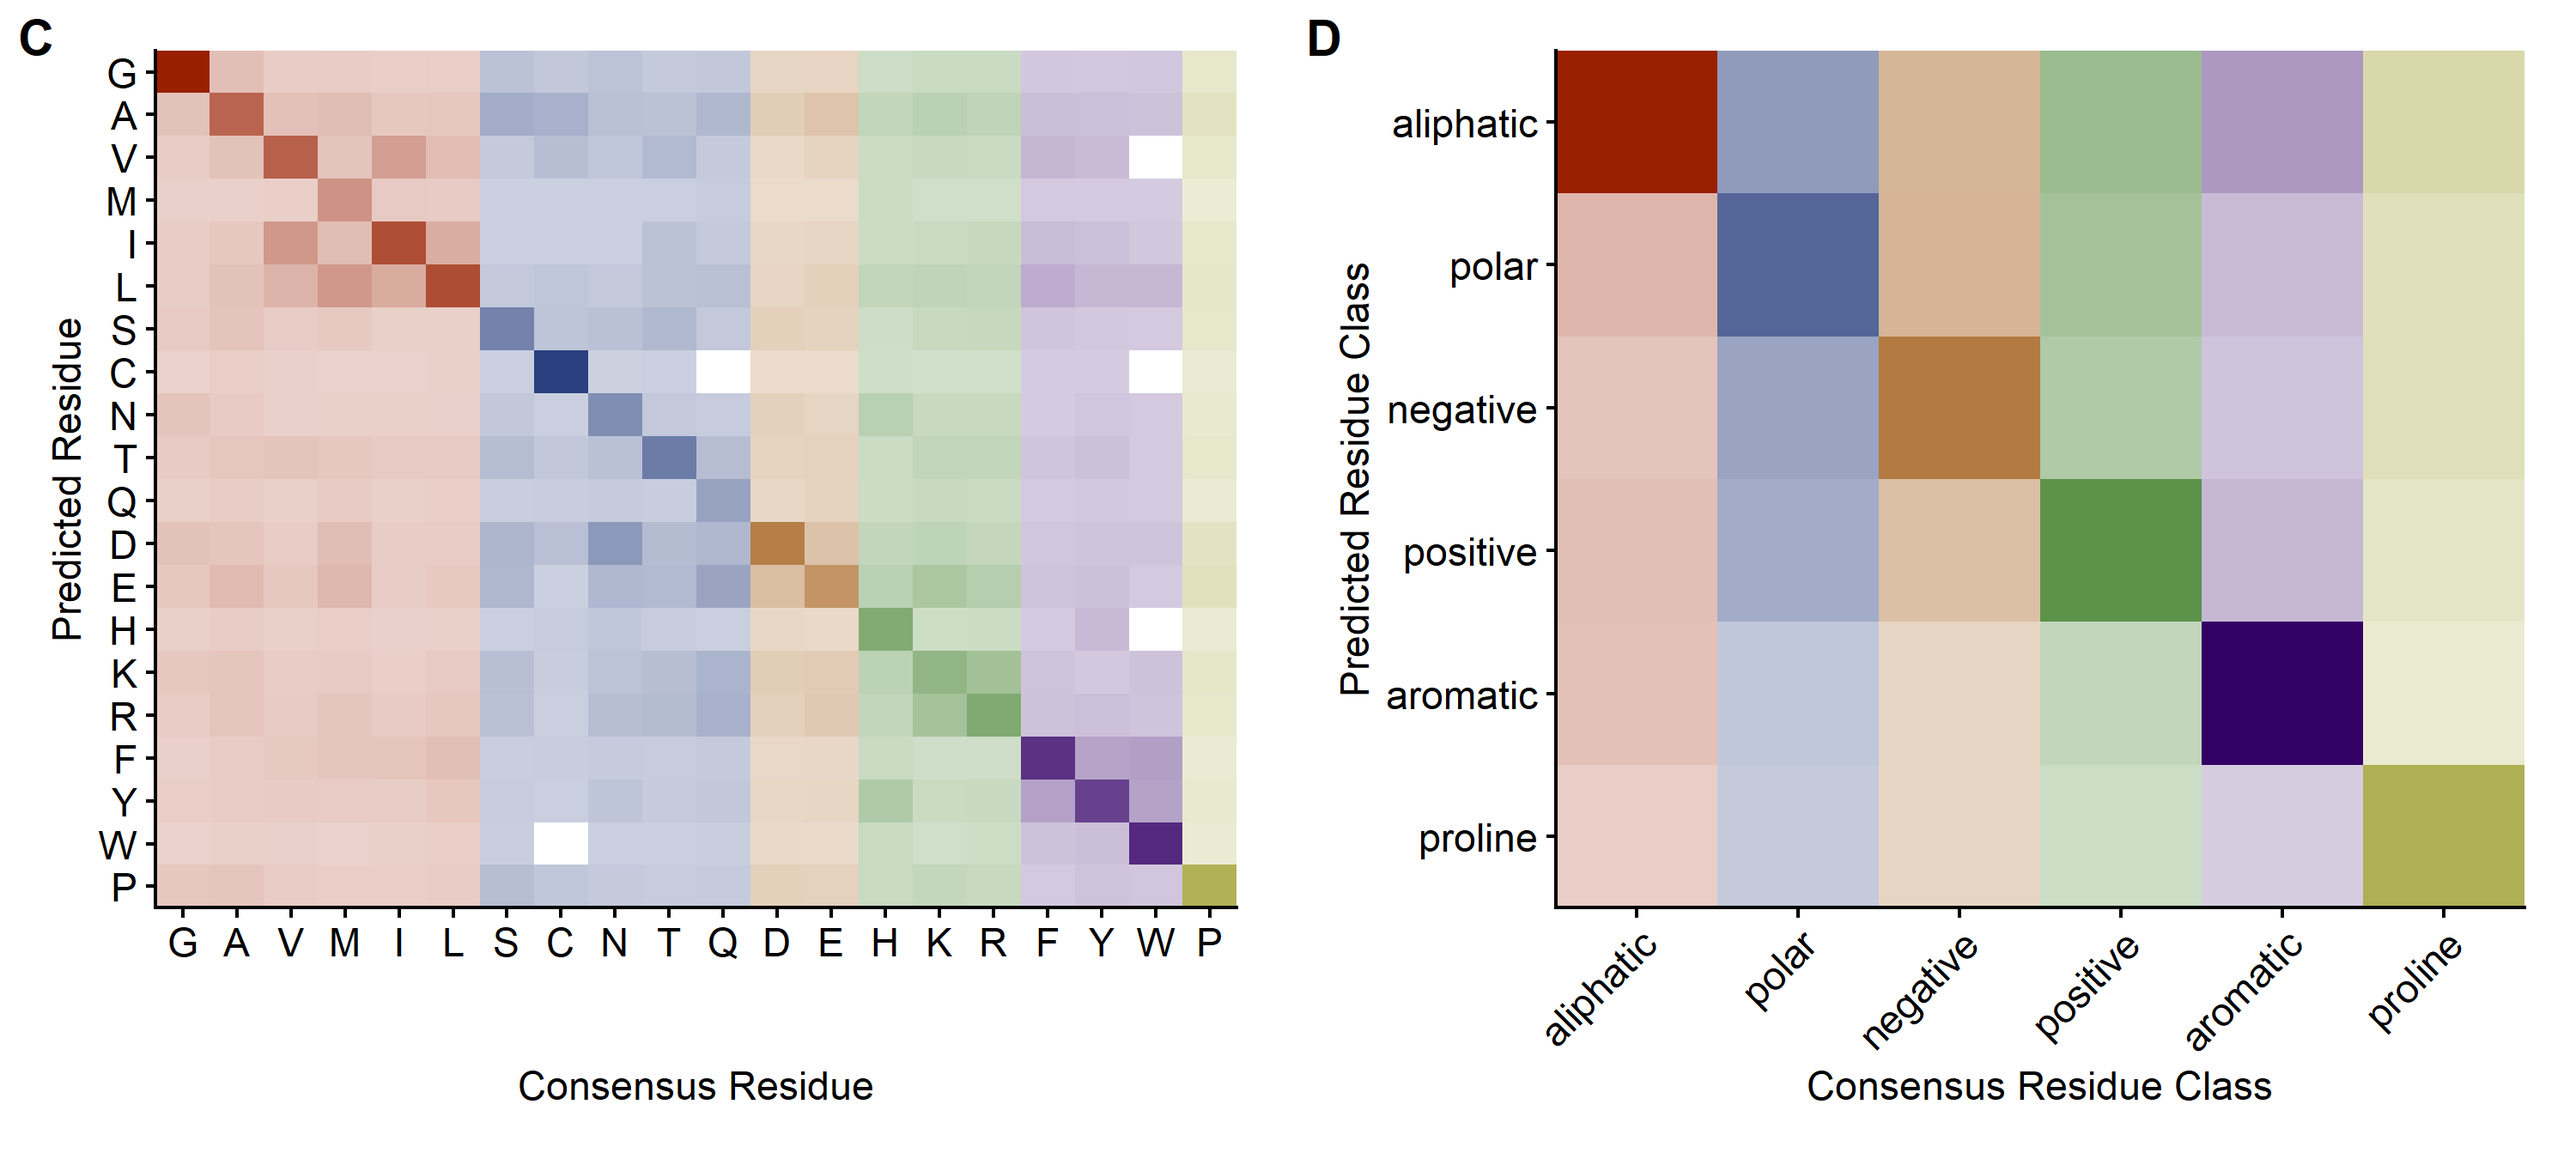
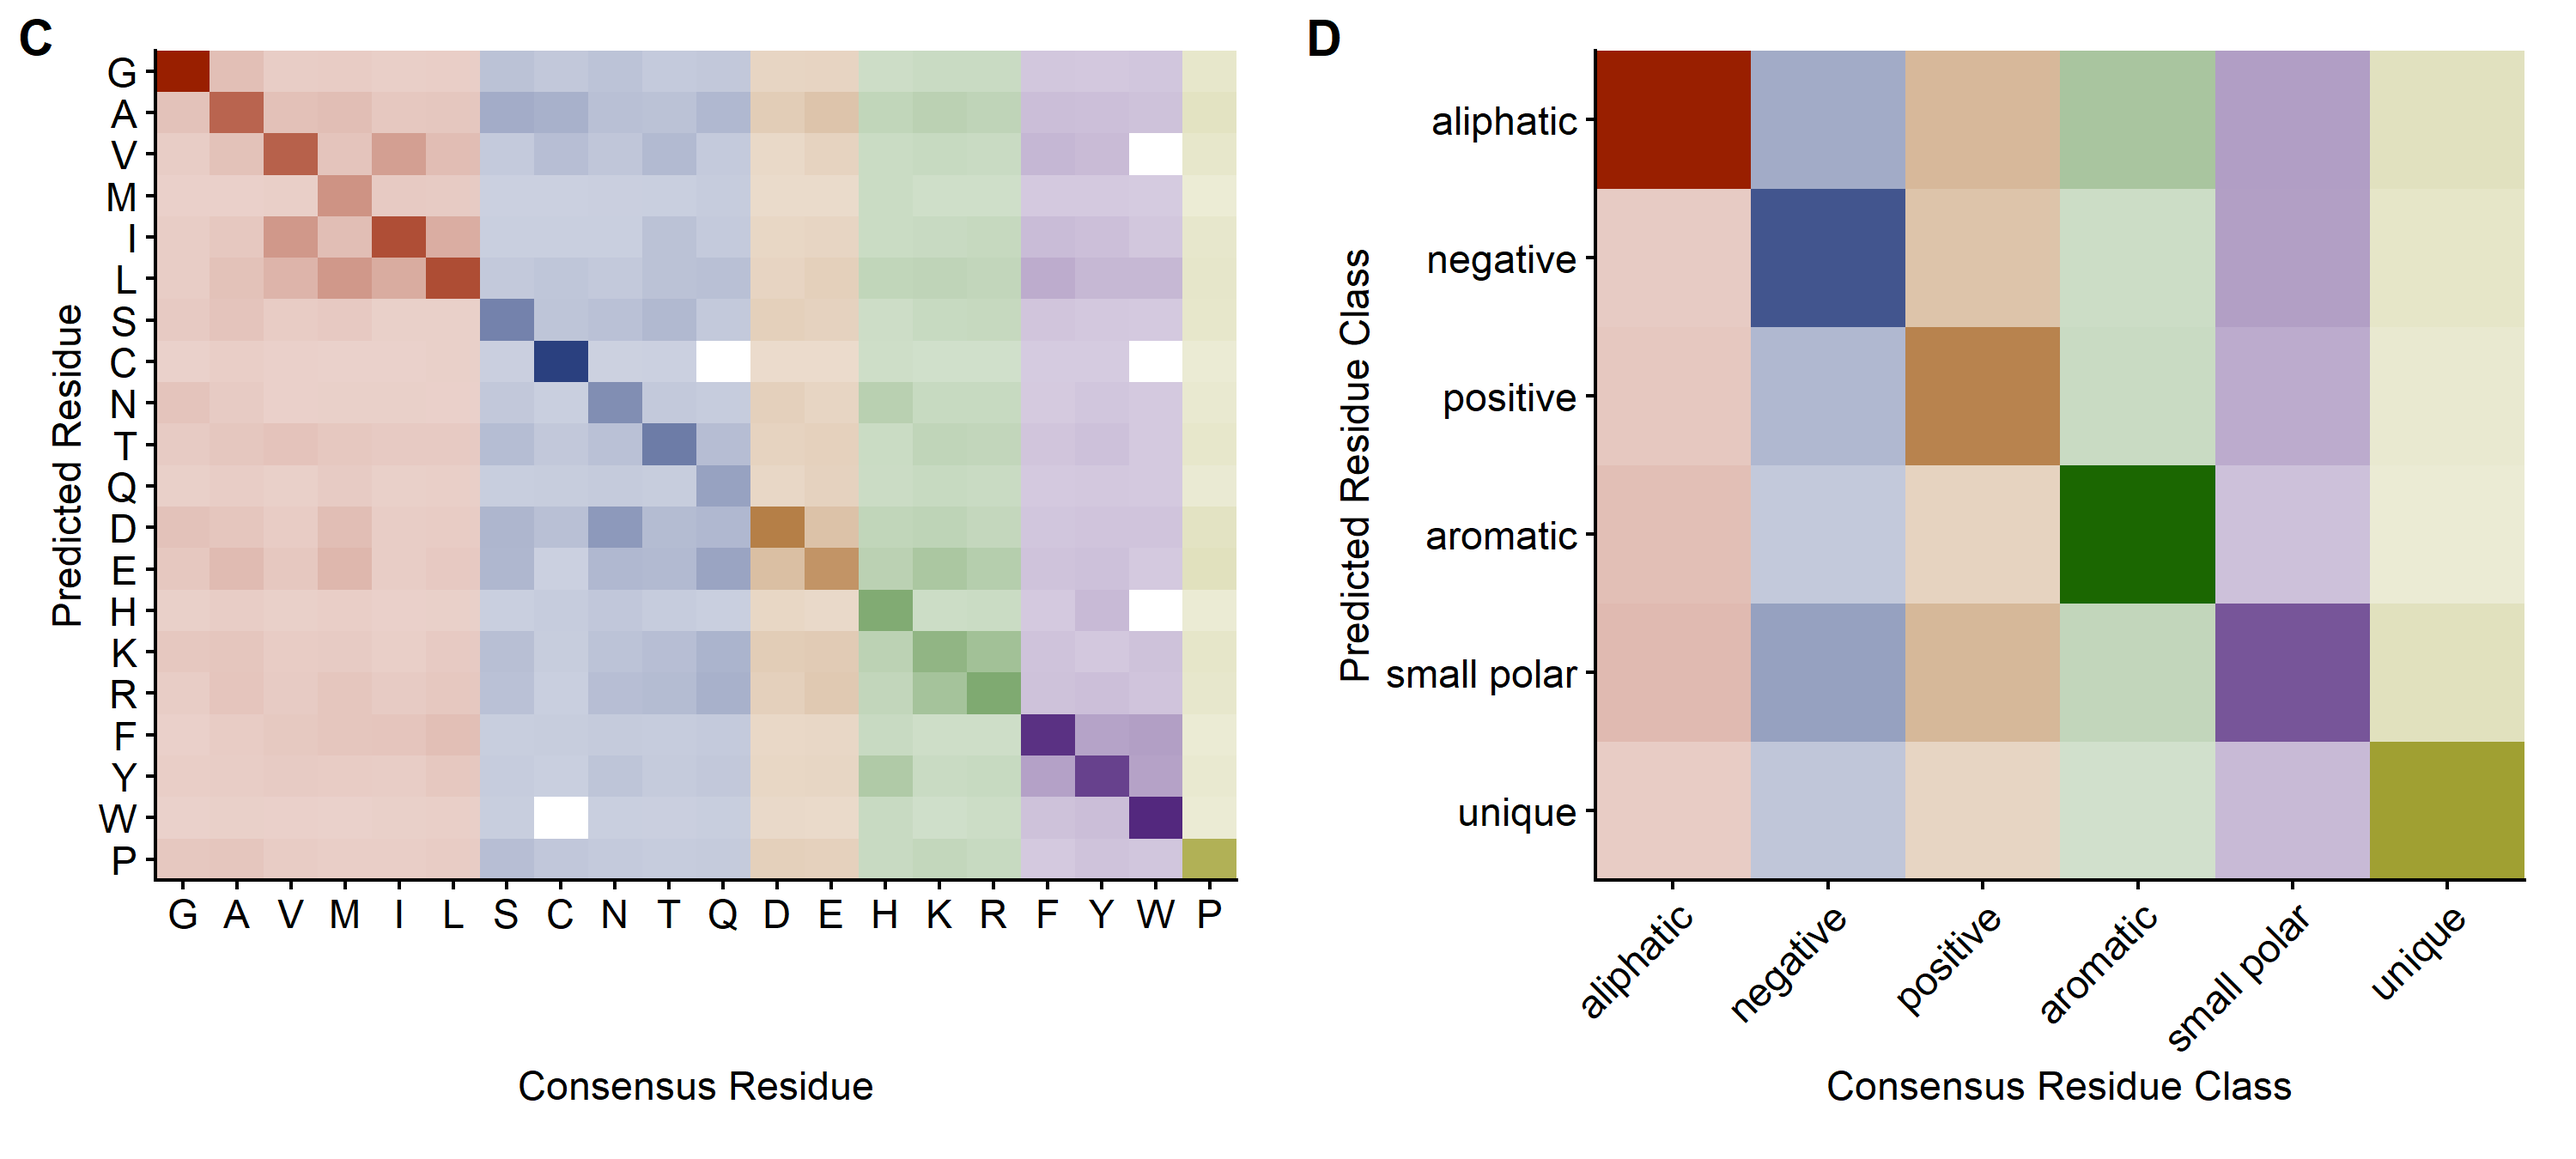
changed figure 3 heatmaps to correct classes

diff --git a/src/python_code/sample_by_similarity.py b/src/python_code/sample_by_similarity.py
@@ -11,60 +11,61 @@ import sys
 # make sure that name of fasta file matches with name the pdb sequences. 
 
 #loading a fasta aln file:
-box_size = "12"
-MAX_LIM = 0.4
-MIN_LIM = MAX_LIM - 0.2
 
-def compare(aln_seq, ref_seq):
-  count_similar = 0
-  for i, j in zip(aln_seq, ref_seq):
-    assert j != "-"
-    if i == j:
-      count_similar += 1
+MAX_LIMS = [0.2, 0.4, 0.6, 0.8, 1.0]
 
-  similarity = float(count_similar/len(ref_seq))
+for max_lim in MAX_LIMS:
+  min_lim = max_lim - 0.2
+  def compare(aln_seq, ref_seq):
+    count_similar = 0
+    for i, j in zip(aln_seq, ref_seq):
+      assert j != "-"
+      if i == j:
+        count_similar += 1
 
-  if similarity > MIN_LIM and similarity <= MAX_LIM:
-    return True
-  else:
-    return False
+    similarity = float(count_similar/len(ref_seq))
 
-# do not use this function (it is just in case)
-def get_reference_from_CNN_data():
-  
-  aaCodes = {'ALA':'A', 'ARG':'R', 'ASN':'N', 'ASP':'D', 'CYS':'C', 'GLN':'Q', 'GLU':'E', 'GLY':'G', 'HIS':'H', 'ILE':'I', 'LEU':'L', 'LYS':'K', 'MET':'M', 'PHE':'F', 'PRO':'P', 'SER':'S', 'THR':'T','TRP':'W', 'TYR':'Y', 'VAL':'V'}
-  with open("../data/PSICOV/PSICOV_CNN_output/1a6m_final_tot.csv", 'r') as file:
-    ref_seq = ""
-    file.readline()
-    for line in file:
-      line = line.rstrip('\n')
-      line = line.rsplit(",")
-      wt_aa = line[5]
-      ref_seq += aaCodes[wt_aa]
+    if similarity > min_lim and similarity <= max_lim:
+      return True
+    else:
+      return False
 
-  return ref_seq
+  # do not use this function (it is just in case)
+  def get_reference_from_CNN_data():
+    
+    aaCodes = {'ALA':'A', 'ARG':'R', 'ASN':'N', 'ASP':'D', 'CYS':'C', 'GLN':'Q', 'GLU':'E', 'GLY':'G', 'HIS':'H', 'ILE':'I', 'LEU':'L', 'LYS':'K', 'MET':'M', 'PHE':'F', 'PRO':'P', 'SER':'S', 'THR':'T','TRP':'W', 'TYR':'Y', 'VAL':'V'}
+    with open("../data/PSICOV/PSICOV_CNN_output/1a6m_final_tot.csv", 'r') as file:
+      ref_seq = ""
+      file.readline()
+      for line in file:
+        line = line.rstrip('\n')
+        line = line.rsplit(",")
+        wt_aa = line[5]
+        ref_seq += aaCodes[wt_aa]
 
-#CNN_reference = get_reference_from_CNN_data() #should be the same as records[0] in alignment
+    return ref_seq
 
-input_path = "../../data/PSICOV_box_" + box_size + "/aln_fasta/"
-output_path = "../../data/PSICOV_box_" + box_size + "/" + "aln_" + str(int(MAX_LIM*100)) + "/"
+  #CNN_reference = get_reference_from_CNN_data() #should be the same as records[0] in alignment
 
-protein_list = os.listdir(input_path)
+  input_path = "../../data/PSICOV/aln_fasta/"
+  output_path = "../../data/PSICOV/aln_" + str(int(max_lim*100)) + "/"
 
-for protein in protein_list:
-  with open(output_path + protein, 'w') as file:
-    records = list(SeqIO.parse(input_path + protein, "fasta"))
-    ref_seq = records[0].seq
-    #file.write(">reference\n") # we do not want to include the reference in the calculations
-    #file.write(str(ref_seq) + "\n")
+  protein_list = os.listdir(input_path)
 
-    for i in range(1, len(records)):
-      aln_seq = records[i].seq
-      keep = compare(str(aln_seq), str(ref_seq))
+  for protein in protein_list:
+    with open(output_path + protein, 'w') as file:
+      records = list(SeqIO.parse(input_path + protein, "fasta"))
+      ref_seq = records[0].seq
+      #file.write(">reference\n") # we do not want to include the reference in the calculations
+      #file.write(str(ref_seq) + "\n")
 
-      if keep:
-        file.write(">" + str(i) + "\n")
-        file.write(str(aln_seq) + "\n")
+      for i in range(1, len(records)):
+        aln_seq = records[i].seq
+        keep = compare(str(aln_seq), str(ref_seq))
+
+        if keep:
+          file.write(">" + str(i) + "\n")
+          file.write(str(aln_seq) + "\n")
 
       
 

diff --git a/src/python_code/get_natural_stats.py b/src/python_code/get_natural_stats.py
@@ -74,7 +74,7 @@ def get_class_freq(freq, length):
   positive = ["R", "K"]
   aromatic = ["H", "Y", "F", "W"]
 
-  class_freq = [{"unique":0, "aliphatic":0, "small polar":0, "negative":0, "positive":0, "aromatic":0} for x in range(length)]
+  class_freq = [{"unique":0, "aliphatic":0, "small_polar":0, "negative":0, "positive":0, "aromatic":0} for x in range(length)]
   for i, col in enumerate(freq): # there are "length" columns
     for aa in col:
       if aa in unique:
@@ -82,7 +82,7 @@ def get_class_freq(freq, length):
       if aa in aliphatic:
         class_freq[i]["aliphatic"] += col[aa] 
       if aa in small_polar:
-        class_freq[i]["small polar"] += col[aa]
+        class_freq[i]["small_polar"] += col[aa]
       if aa in negative:
         class_freq[i]["negative"] += col[aa]
       if aa in positive:
@@ -100,10 +100,13 @@ for group_name in group_list:
   output_path = "../../output/output_PSICOV/stats_align_files/stats_align_" + group_name + ".csv"
 
   # for group names: 40, 60 and 80, alignments must be longer than "min_seqs". 
+  
   if group_name != "20" or group_name != "100":
     input_path = "../../data/PSICOV/aln_filtered_" + str(min_seqs) + "/aln_" + group_name + "/" #input multiple sequence aligments path
   else:
     input_path = "../../data/PSICOV/aln_" + group_name + "/" #input multiple sequence aligments path
+
+  #input_path = "../../data/PSICOV/aln_" + group_name + "/" #input multiple sequence aligments path
 
   #list of protein sequence alignments:
   protein_list = os.listdir(input_path)
@@ -142,8 +145,8 @@ for group_name in group_list:
 
       # saving freq, entropy and n_eff values to CSV:
       #old: aa = ['H', 'E', 'D', 'R', 'K', 'S', 'T', 'N', 'Q', 'A', 'V', 'L', 'I', 'M', 'F', 'Y', 'W', 'P', 'G', 'C']
-      aa = ['A', 'R', 'N',  'D', 'C', 'Q', 'E', 'G', 'H', 'I', 'L', 'K', 'M', 'F', 'P', 'S', 'T', 'W', 'Y', 'V']
-      classes = ['unique', 'aliphatic', 'small polar', 'negative', 'positive', 'aromatic']
+      aa = ['A', 'R', 'N', 'D', 'C', 'Q', 'E', 'G', 'H', 'I', 'L', 'K', 'M', 'F', 'P', 'S', 'T', 'W', 'Y', 'V']
+      classes = ['unique', 'aliphatic', 'small_polar', 'negative', 'positive', 'aromatic']
       
       for position in range(length):
         freq_list = []

diff --git a/src/python_code/extras/max_freq_to_csv.py b/src/python_code/extras/max_freq_to_csv.py
@@ -36,14 +36,14 @@ def get_class_freq(line):
   positive = ["R", "K"]
   aromatic = ["H", "Y", "F", "W"]
 
-  class_dict = {"unique":0, "aliphatic":0, "small polar":0, "negative":0, "positive":0, "aromatic":0}
+  class_dict = {"unique":0, "aliphatic":0, "small_polar":0, "negative":0, "positive":0, "aromatic":0}
   for i, aa in enumerate(aaList):
     if aa in unique:
       class_dict["unique"] += float(line[i+10])
     if aa in aliphatic:
       class_dict["aliphatic"] += float(line[i+10]) 
     if aa in small_polar:
-      class_dict["small polar"] += float(line[i+10])
+      class_dict["small_polar"] += float(line[i+10])
     if aa in negative:
       class_dict["negative"] += float(line[i+10])
     if aa in positive:
@@ -66,14 +66,14 @@ def get_class_freq_2(wt_aa, line):
   positive = ["R", "K"]
   aromatic = ["H", "Y", "F", "W"]
 
-  class_dict = {"unique":0, "aliphatic":0, "small polar":0, "negative":0, "positive":0, "aromatic":0}
+  class_dict = {"unique":0, "aliphatic":0, "small_polar":0, "negative":0, "positive":0, "aromatic":0}
   for i, aa in enumerate(aaList):
     if aa in unique:
       class_dict["unique"] += float(line[i+10])
     if aa in aliphatic:
       class_dict["aliphatic"] += float(line[i+10]) 
     if aa in small_polar:
-      class_dict["small polar"] += float(line[i+10])
+      class_dict["small_polar"] += float(line[i+10])
     if aa in negative:
       class_dict["negative"] += float(line[i+10])
     if aa in positive:
@@ -88,7 +88,7 @@ def get_class_freq_2(wt_aa, line):
   if wt_aa in aliphatic:
     aa_class = "aliphatic" 
   if wt_aa in small_polar:
-    aa_class = "small polar"
+    aa_class = "small_polar"
   if wt_aa in negative:
     aa_class = "negative"
   if wt_aa in positive:

diff --git a/src/python_code/get_natural_stats_all.py b/src/python_code/get_natural_stats_all.py
@@ -75,7 +75,7 @@ def get_class_freq(freq, length):
   positive = ["R", "K"]
   aromatic = ["H", "Y", "F", "W"]
 
-  class_freq = [{"unique":0, "aliphatic":0, "small polar":0, "negative":0, "positive":0, "aromatic":0} for x in range(length)]
+  class_freq = [{"unique":0, "aliphatic":0, "small_polar":0, "negative":0, "positive":0, "aromatic":0} for x in range(length)]
   for i, col in enumerate(freq): # there are "length" columns
     for aa in col:
       if aa in unique:
@@ -83,7 +83,7 @@ def get_class_freq(freq, length):
       if aa in aliphatic:
         class_freq[i]["aliphatic"] += col[aa] 
       if aa in small_polar:
-        class_freq[i]["small polar"] += col[aa]
+        class_freq[i]["small_polar"] += col[aa]
       if aa in negative:
         class_freq[i]["negative"] += col[aa]
       if aa in positive:
@@ -136,7 +136,7 @@ with open(output_path, "w", newline='\n', encoding='utf-8') as CSV_file:
     # saving freq, entropy and n_eff values to CSV:
     #old: aa = ['H', 'E', 'D', 'R', 'K', 'S', 'T', 'N', 'Q', 'A', 'V', 'L', 'I', 'M', 'F', 'Y', 'W', 'P', 'G', 'C']
     aa = ['A', 'R', 'N',  'D', 'C', 'Q', 'E', 'G', 'H', 'I', 'L', 'K', 'M', 'F', 'P', 'S', 'T', 'W', 'Y', 'V']
-    classes = ['unique', 'aliphatic', 'small polar', 'negative', 'positive', 'aromatic']
+    classes = ['unique', 'aliphatic', 'small_polar', 'negative', 'positive', 'aromatic']
     
     for position in range(length):
       freq_list = []

diff --git a/src/python_code/extras/natural_max_freq_all.py b/src/python_code/extras/natural_max_freq_all.py
@@ -15,7 +15,7 @@ def getMax(list):
   return [aaList[ind], max]
 
 def getMax_class(list):
-  class_list = ['unique', 'aliphatic', 'small polar', 'negative', 'positive', 'aromatic']
+  class_list = ['unique', 'aliphatic', 'small_polar', 'negative', 'positive', 'aromatic']
   ind = 0
   max = 0
   for i in range(0, len(list)):
@@ -26,7 +26,7 @@ def getMax_class(list):
   return [class_list[ind], max]
 
 def get_aa_class(wt_aa, class_freqs):
-  class_list = ['unique', 'aliphatic', 'small polar', 'negative', 'positive', 'aromatic']
+  class_list = ['unique', 'aliphatic', 'small_polar', 'negative', 'positive', 'aromatic']
 
   unique = ["P", "G"]
   aliphatic = ["M", "L", "I", "V", "A"]
@@ -41,7 +41,7 @@ def get_aa_class(wt_aa, class_freqs):
   if wt_aa in aliphatic:
     aa_class = "aliphatic" 
   if wt_aa in small_polar:
-    aa_class = "small polar"
+    aa_class = "small_polar"
   if wt_aa in negative:
     aa_class = "negative"
   if wt_aa in positive:

diff --git a/src/python_code/extras/natural_max_freq.py b/src/python_code/extras/natural_max_freq.py
@@ -26,7 +26,7 @@ def getMax_class(list):
   return [class_list[ind], max]
 
 def get_aa_class(wt_aa, class_freqs):
-  class_list = ['unique', 'aliphatic', 'small polar', 'negative', 'positive', 'aromatic']
+  class_list = ['unique', 'aliphatic', 'small_polar', 'negative', 'positive', 'aromatic']
 
   unique = ["P", "G"]
   aliphatic = ["M", "L", "I", "V", "A"]
@@ -41,7 +41,7 @@ def get_aa_class(wt_aa, class_freqs):
   if wt_aa in aliphatic:
     aa_class = "aliphatic" 
   if wt_aa in small_polar:
-    aa_class = "small polar"
+    aa_class = "small_polar"
   if wt_aa in negative:
     aa_class = "negative"
   if wt_aa in positive:
